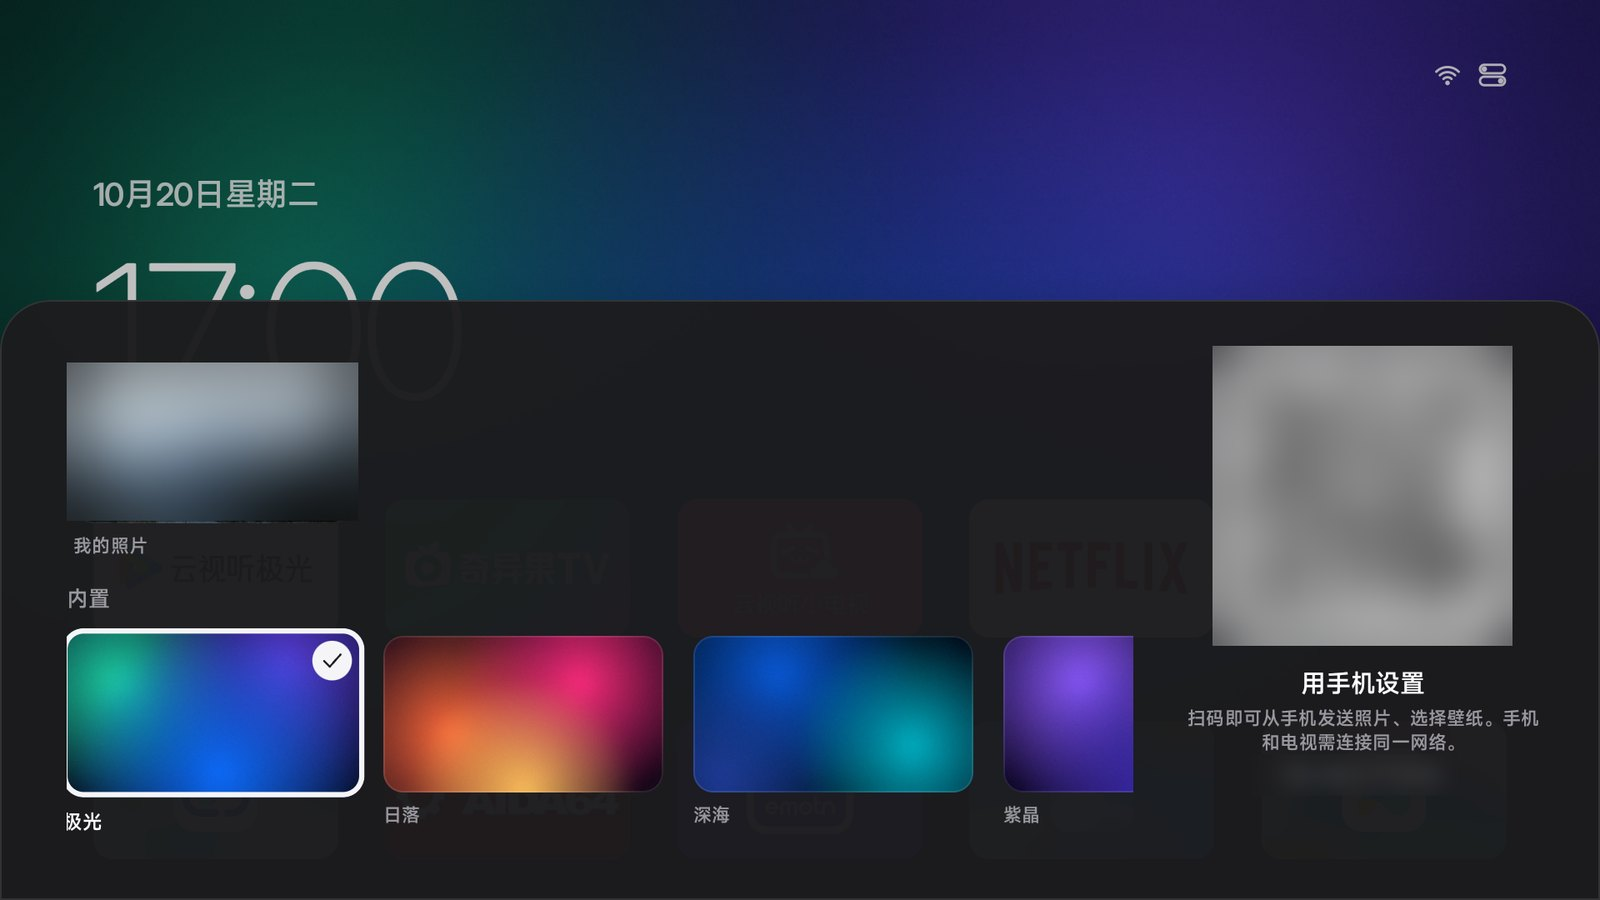
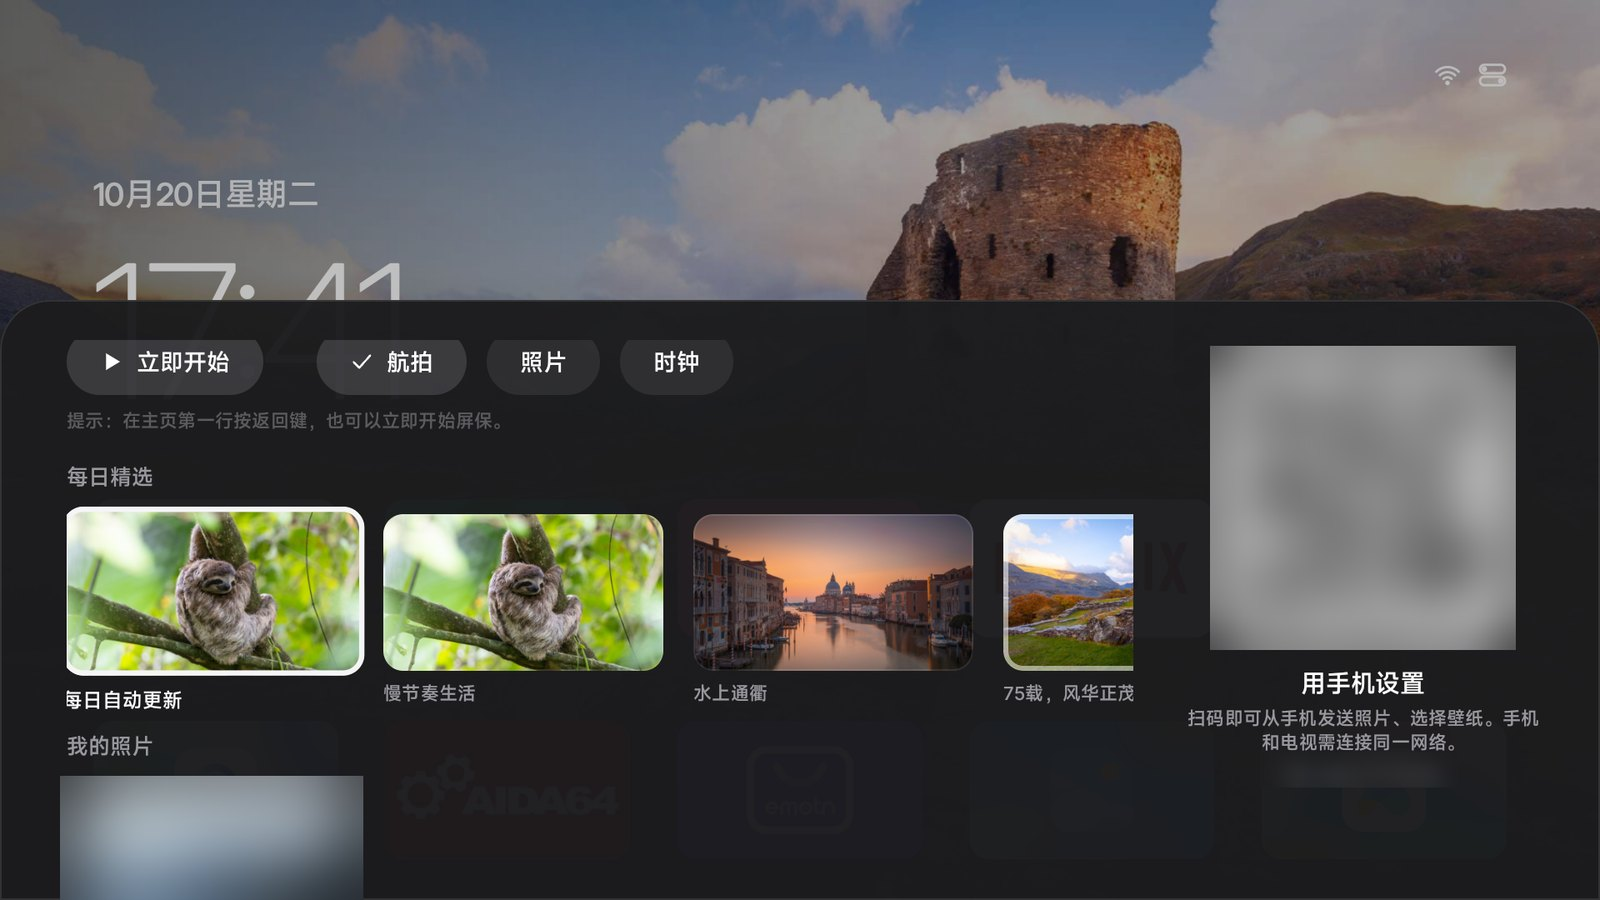
Screenshots on daily wallpapers; before/after slider on the website
Re-shot the screenshots on Bing daily wallpapers instead of gradients, added the
Xiaomi stock launcher for comparison, and made the website hero a before/after
slider that follows the pointer.

diff --git a/android/site/index.html b/android/site/index.html
@@ -81,6 +81,25 @@
     box-shadow: 0 0 0 10px #111, 0 0 0 11px #2a2a2d, 0 40px 120px -20px rgba(41,151,255,.25), 0 30px 80px rgba(0,0,0,.8);
   }
   .tv .screen img { width: 100%; aspect-ratio: 16 / 9; object-fit: cover; }
+  .compare { --x: 0%; cursor: ew-resize; touch-action: pan-y; user-select: none; -webkit-user-select: none; outline: none; }
+  .compare img { -webkit-user-drag: none; pointer-events: none; }
+  .compare .before { position: absolute; inset: 0; height: 100%; clip-path: inset(0 0 0 var(--x)); }
+  .compare .divider { position: absolute; top: 0; bottom: 0; left: var(--x); width: 2px; margin-left: -1px; background: rgba(255,255,255,.9); box-shadow: 0 0 18px rgba(0,0,0,.5); }
+  .compare .knob {
+    position: absolute; top: 50%; left: 50%; width: 44px; height: 44px; margin: -22px 0 0 -22px; border-radius: 50%;
+    display: grid; place-items: center; color: #111; background: rgba(255,255,255,.92);
+    box-shadow: 0 6px 24px rgba(0,0,0,.45); -webkit-backdrop-filter: blur(10px); backdrop-filter: blur(10px);
+    transition: transform .2s var(--ease);
+  }
+  .compare:hover .knob, .compare:focus-visible .knob { transform: scale(1.08); }
+  .compare .tag {
+    position: absolute; bottom: 16px; padding: 5px 12px; border-radius: 980px; font-size: 13px; font-weight: 600; letter-spacing: .01em;
+    color: #fff; background: rgba(0,0,0,.55); -webkit-backdrop-filter: blur(12px); backdrop-filter: blur(12px);
+    transition: opacity .3s ease;
+  }
+  .compare .tag-after { left: 16px; }
+  .compare .tag-before { right: 16px; }
+  .compare-hint { color: var(--dim); font-size: 14px; margin: 18px 0 0; }
   .tv .stand { width: 26%; height: 14px; margin: 18px auto 0; border-radius: 0 0 10px 10px; background: linear-gradient(#2a2a2d, #141416); }
   .glow { position: absolute; inset: -10% -20% auto; height: 70%; z-index: -1; filter: blur(80px); opacity: .55;
     background: radial-gradient(40% 50% at 30% 50%, #1f7a6a, transparent 70%), radial-gradient(40% 50% at 70% 40%, #3b2a9c, transparent 70%); }
@@ -191,6 +210,10 @@
     .field .opt { padding: 4px 0 6px; }
     table.adb th { width: auto; display: block; padding-bottom: 4px; border: 0; }
     table.adb td { display: block; padding-top: 0; }
+    .compare .tag { bottom: 8px; font-size: 11px; padding: 3px 9px; }
+    .compare .tag-after { left: 8px; }
+    .compare .tag-before { right: 8px; }
+    .compare .knob { width: 34px; height: 34px; margin: -17px 0 0 -17px; }
   }
 </style>
 </head>
@@ -224,8 +247,15 @@
     </div>
     <div class="tv reveal">
       <div class="glow"></div>
-      <div class="screen"><img src="img/home.jpg" alt="Aerial 首页：大号时钟、柔光渐变壁纸和应用网格" width="1600" height="900"></div>
+      <div class="screen compare" id="compare" role="slider" tabindex="0" aria-label="厂商桌面与 Aerial 的对比，左右移动查看" aria-valuemin="0" aria-valuemax="100" aria-valuenow="0">
+        <img class="after" src="img/home.jpg" alt="Aerial 首页：大号时钟、风景壁纸和应用网格" width="1600" height="900">
+        <img class="before" src="img/stock-xiaomi.jpg" alt="电视自带的桌面：满屏剧集推荐、会员和限免角标" width="1600" height="900">
+        <span class="tag tag-after">Aerial</span>
+        <span class="tag tag-before">电视自带的桌面</span>
+        <div class="divider" aria-hidden="true"><span class="knob"><svg width="20" height="20" viewBox="0 0 24 24" fill="none" stroke="currentColor" stroke-width="2.4" stroke-linecap="round" stroke-linejoin="round"><path d="M9 6l-6 6 6 6M15 6l6 6-6 6"/></svg></span></div>
+      </div>
       <div class="stand"></div>
+      <p class="compare-hint">左右移动鼠标，把电视自带的桌面换成 Aerial</p>
     </div>
   </div>
 </header>
@@ -495,6 +525,50 @@ adb shell am start -n app.orchard.tv/.MainActivity`;
     }
     b.textContent = '已复制'; clearTimeout(b.timer); b.timer = setTimeout(() => b.textContent = '复制', 1600);
   }));
+
+  // Before/after: the TV's own launcher on the right of the line, Aerial on the left. The line
+  // follows the pointer across the hero, eased so it glides rather than jumps.
+  (() => {
+    const box = $('#compare');
+    const hero = document.querySelector('.hero');
+    const tagAfter = box.querySelector('.tag-after'), tagBefore = box.querySelector('.tag-before');
+    const reduced = matchMedia('(prefers-reduced-motion: reduce)').matches;
+    let x = 0, target = 0, raf = 0, touched = false;
+    const set = v => {
+      x = v;
+      box.style.setProperty('--x', (x * 100).toFixed(2) + '%');
+      box.setAttribute('aria-valuenow', Math.round(x * 100));
+      tagAfter.style.opacity = x > 0.18 ? 1 : 0;
+      tagBefore.style.opacity = x < 0.82 ? 1 : 0;
+    };
+    const tick = () => {
+      const d = target - x;
+      if (Math.abs(d) < 0.0005) { set(target); raf = 0; return; }
+      set(x + d * 0.14);
+      raf = requestAnimationFrame(tick);
+    };
+    const go = v => { target = Math.min(1, Math.max(0, v)); if (reduced) set(target); else if (!raf) raf = requestAnimationFrame(tick); };
+    const fromEvent = e => { const r = box.getBoundingClientRect(); return (e.clientX - r.left) / r.width; };
+
+    hero.addEventListener('pointermove', e => { if (e.pointerType === 'mouse') { touched = true; go(fromEvent(e)); } });
+    box.addEventListener('pointerdown', e => { touched = true; box.setPointerCapture(e.pointerId); go(fromEvent(e)); });
+    box.addEventListener('pointermove', e => { if (e.pointerType !== 'mouse' && box.hasPointerCapture(e.pointerId)) go(fromEvent(e)); });
+    box.addEventListener('keydown', e => {
+      if (e.key === 'ArrowRight' || e.key === 'ArrowLeft') { e.preventDefault(); touched = true; go(target + (e.key === 'ArrowRight' ? 0.1 : -0.1)); }
+    });
+
+    if (matchMedia('(hover: none)').matches) $('.compare-hint').textContent = '左右拖动，把电视自带的桌面换成 Aerial';
+    set(0);
+    // A first sweep shows what the slider does; it gives way as soon as someone moves the pointer.
+    if (reduced) { set(0.5); return; }
+    const start = () => setTimeout(() => {
+      if (touched) return;
+      go(1);
+      setTimeout(() => { if (!touched) go(0.5); }, 1500);
+    }, 700);
+    const seen = new IntersectionObserver(es => { if (es[0].isIntersecting) { seen.disconnect(); start(); } }, { threshold: 0.5 });
+    seen.observe(box);
+  })();
 
   const io = 'IntersectionObserver' in window ? new IntersectionObserver(es => es.forEach(e => {
     if (e.isIntersecting) { e.target.classList.add('in'); io.unobserve(e.target); }

diff --git a/android/README.md b/android/README.md
@@ -18,6 +18,10 @@
 
 ![Aerial 首页](site/img/home.jpg)
 
+| 电视自带的桌面 | 换上 Aerial 之后 |
+|:---:|:---:|
+| <img src="site/img/stock-xiaomi.jpg" alt="电视自带的桌面：满屏剧集推荐、会员和限免角标"> | <img src="site/img/home.jpg" alt="Aerial 首页"> |
+
 </div>
 
 ## 功能
